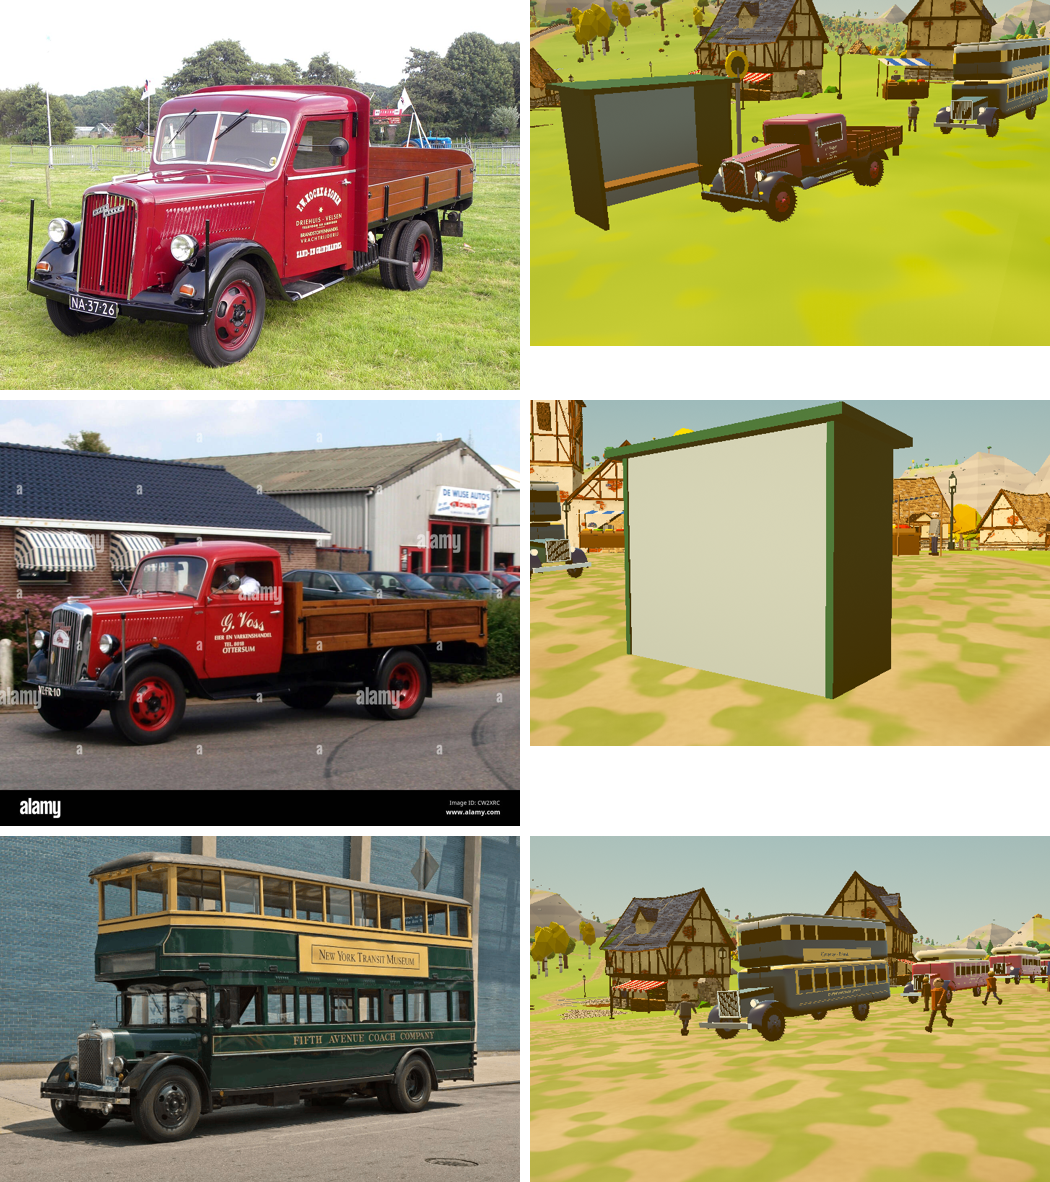
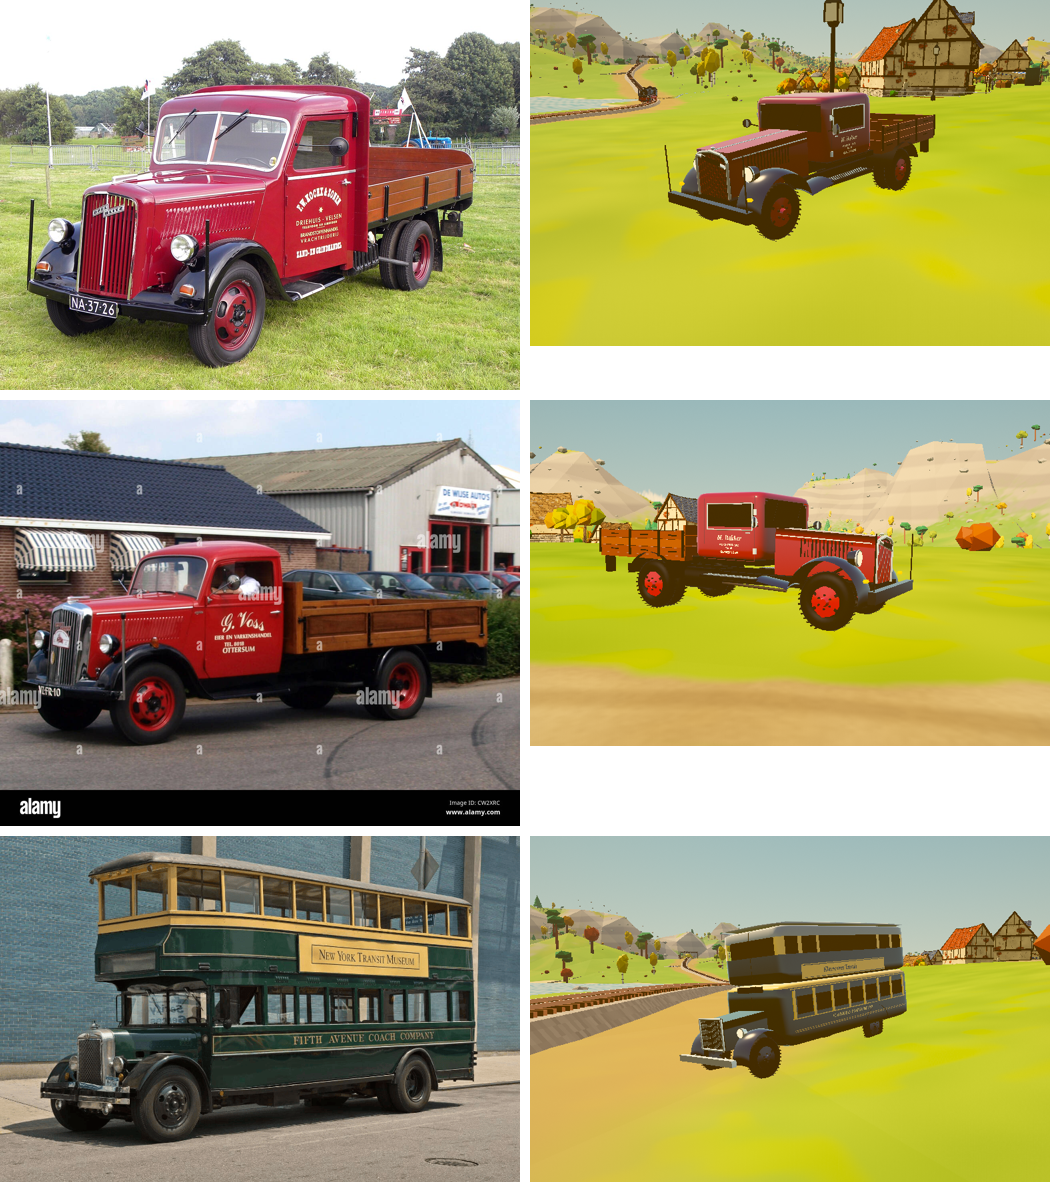
Double-decker greener (the colour grading greyed it); comparison picture with the user's photos
Claude-Session: https://claude.ai/code/session_01XEFkHm1jcQJ6MRroWR8zg2

diff --git a/js/roadveh.js b/js/roadveh.js
@@ -108,7 +108,7 @@ const RVMesh=(()=>{
     person(B,-0.25,1.08,-0.45,[0.92,0.92,0.9],[0.15,0.15,0.17]);
     return B;};
   // ================================================================ buses: decks 1 (the small cream-and-red bus) or 2 (the 1930s double-decker)
-  const bus=(decks)=>{const B=vmesh(),dd=decks===2;const C=dd?{low:[0.03,0.2,0.09],band:[0.98,0.8,0.28],up:[0.03,0.2,0.09],roof:[0.62,0.63,0.6],hood:[0.03,0.2,0.09]}:{low:[0.74,0.12,0.09],band:[0.93,0.87,0.7],up:[0.93,0.87,0.7],roof:[0.93,0.87,0.7],hood:[0.74,0.12,0.09]};
+  const bus=(decks)=>{const B=vmesh(),dd=decks===2;const C=dd?{low:[0.015,0.26,0.07],band:[0.98,0.8,0.28],up:[0.015,0.26,0.07],roof:[0.62,0.63,0.6],hood:[0.015,0.26,0.07]}:{low:[0.74,0.12,0.09],band:[0.93,0.87,0.7],up:[0.93,0.87,0.7],roof:[0.93,0.87,0.7],hood:[0.74,0.12,0.09]};
     const L0=dd?-4.65:-4.4,Lc=dd?1.95:2.15,W=dd?1.2:1.18,yb=0.62,y1=2.28,y2=dd?3.82:2.75,ax=dd?[2.6,-2.4]:[2.3,-2.3];
     // ---- lower deck: a rounded box with the window band cut out; frames; the gold lining
     const lowH=[(Lc-L0)/2,(y1-yb)/2,W],lU=sqU(lowH,0.12,110),lV=sqV(lowH,0.12,34),lowF=sq([(L0+Lc)/2,(yb+y1)/2,0],lowH,0.12),winL=p=>Math.abs(p[2])>W*0.95&&p[1]>1.35&&p[1]<2.08&&p[0]>L0+0.4&&p[0]<Lc-0.45&&((p[0]-L0-0.4)%0.82)>0.1;
